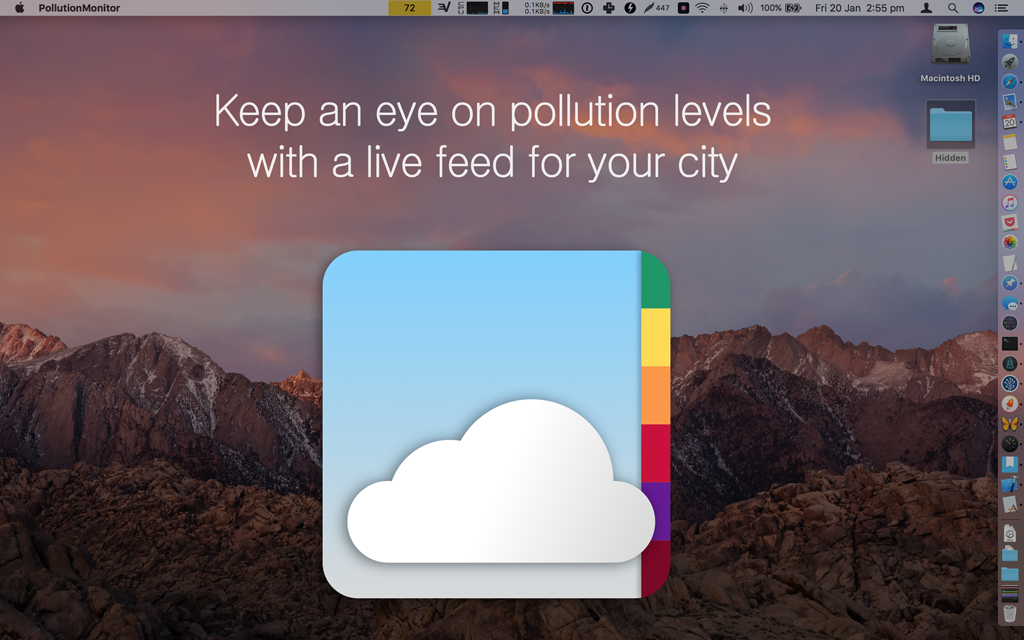
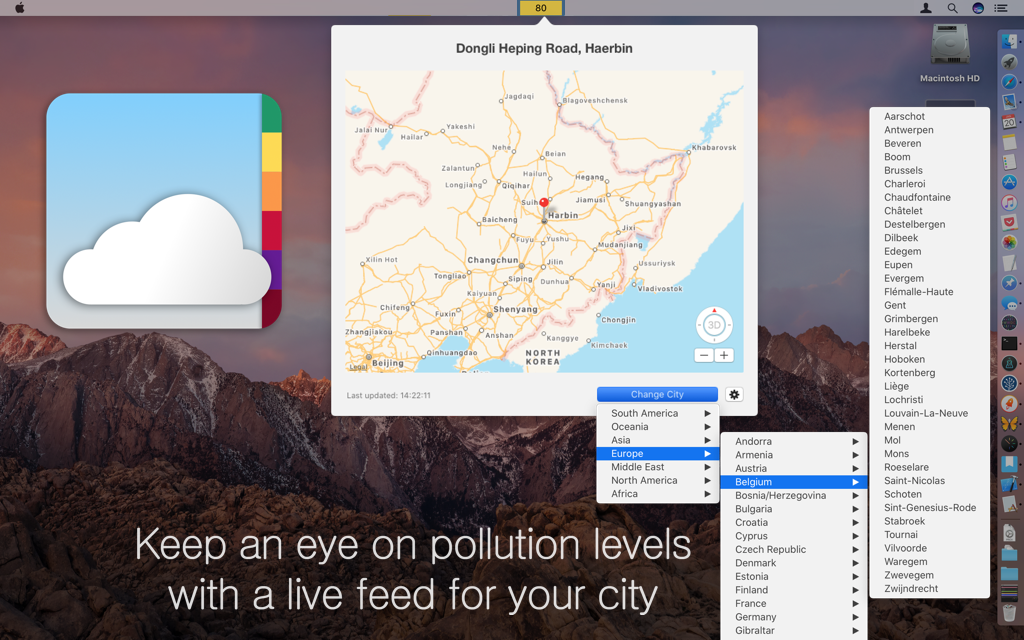
Website updates.

diff --git a/apps/pollution-monitor/index.md b/apps/pollution-monitor/index.md
@@ -8,26 +8,19 @@ title: Pollution Monitor for the Mac
 ## About the App
 ![][image-3]
 
-Available in English and Mandarin, the first release of **Pollution Monitor** features live pollution readings for the top 10 cities in China:
+**Pollution Monitor** is a Mac app that provides live pollution readings for almost 4000 cities around the globe, right in your status bar.
 
- - Beijing
- - Shanghai
- - Guangzhou
- - Shenzhen
- - Tianjin
- - Hong Kong
- - Dongguan
- - Hangzhou
- - Chengdu
- - Haerbin
-
-More cities will be added in a future release.  
+- 100 countries
+- 4711 cities
 
 > All data provided by the [World Air Quality Index Project][3] and additional info about the selected city's Environmental Protection Agency available via web link from app.
 
 ## Screenshots
 ![][image-4]
 ![][image-5]
+
+## Changelog
+See the [changelog][5]
 
 ## Contact
 If you have any enquiries about the app please [get in touch][4].
@@ -36,6 +29,7 @@ If you have any enquiries about the app please [get in touch][4].
 [2]:	https://itunes.apple.com/cn/app/pollution-monitor/id1197195842?l=zh&mt=12
 [3]:	http://waqi.info/
 [4]:	mailto:support@seagullsystems.com
+[5]:	pollution%20monitor%20changelog
 
 [image-1]:	images/Download_on_the_Mac_App_Store_Badge_US-UK_165x40.svg
 [image-2]:	images/Download_on_the_App_Store_Badge_CN_135x40.svg

diff --git a/apps/pollution-monitor/pollution monitor changelog.md b/apps/pollution-monitor/pollution monitor changelog.md
@@ -1,0 +1,41 @@
+#  Pollution Monitor Changelog
+
+## 2.1.0 (Jun 03, 2020)
+
+Improvements
+- Added mapview for selected city
+- Added more info for location name
+- Cleaned up UI 
+- Reduced minimum macOS version required to 10.12 from 10.14
+
+Bugfixes 
+- Improved accuracy of API requests
+
+## 2.0.1 (May 27, 2020)
+
+Improvements
+- Added 106 cities for South Korea
+
+## 2.0 (Sep 20, 2019)
+
+- Added 99 countries and 3605 cities
+
+## 1.1.4 (Mar 9, 2018)
+
+Added Nanjing, Singapore, Seol
+
+## 1.1.3 (May 26, 2017)
+
+Worked around aqicn.org SSL certificate expiring.  The app should be working again after this update.
+
+## 1.1.2 (Mar 16, 2017)
+
+- added London, Mumbai, New Delhi
+- removed app icon from Dock and Application Switcher UI
+
+## 1.1.1 (Jan 30, 2017)
+
+- added Chinese localisation
+- reduced minimum required macOS version to 10.8 (Mountain Lion)
+
+## 1.0 (Jan 20, 2017)
